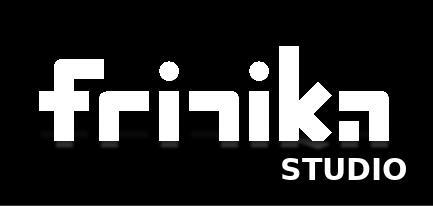
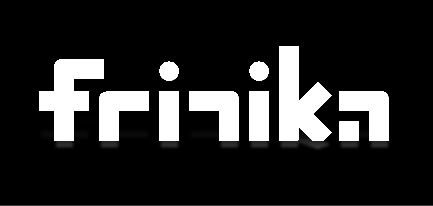
Convert to possible version update of Frinika - Updated about app animation

Changed region(s): [[0.6305, 0.7573, 0.9607, 0.8738]]

diff --git a/modules/frinika-gui/src/main/java/com/frinika/gui/panel/AnimatedLogoPanel.java b/modules/frinika-gui/src/main/java/com/frinika/gui/panel/AnimatedLogoPanel.java
@@ -65,7 +65,7 @@ public class AnimatedLogoPanel extends javax.swing.JPanel {
     public AnimatedLogoPanel() {
         boolean darkMode = WindowUtils.isDarkMode();
         String postfix = darkMode ? "-dark" : "";
-        labelImage = new javax.swing.ImageIcon(getClass().getResource("/com/frinika/resources/frinika-studio" + postfix + ".png"));
+        labelImage = new javax.swing.ImageIcon(getClass().getResource("/com/frinika/resources/frinika" + postfix + ".png"));
         lightImage = new javax.swing.ImageIcon(getClass().getResource("/com/frinika/resources/frinika_light_gradient.png"));
         cloudImage = new javax.swing.ImageIcon(getClass().getResource("/com/frinika/resources/frinika_score.png"));
         overscanImage = new javax.swing.ImageIcon(getClass().getResource("/com/frinika/resources/frinika_overscan" + postfix + ".png"));
@@ -190,7 +190,7 @@ public class AnimatedLogoPanel extends javax.swing.JPanel {
         setBackground(darkMode ? Color.BLACK : Color.WHITE);
 
         String postfix = darkMode ? "-dark" : "";
-        labelImage = new javax.swing.ImageIcon(getClass().getResource("/com/frinika/resources/frinika-studio" + postfix + ".png"));
+        labelImage = new javax.swing.ImageIcon(getClass().getResource("/com/frinika/resources/frinika" + postfix + ".png"));
         overscanImage = new javax.swing.ImageIcon(getClass().getResource("/com/frinika/resources/frinika_overscan" + postfix + ".png"));
         invalidate();
     }

diff --git a/modules/frinika-gui/src/main/java/com/frinika/gui/WelcomeDialog.java b/modules/frinika-gui/src/main/java/com/frinika/gui/WelcomeDialog.java
@@ -80,7 +80,7 @@ public class WelcomeDialog extends JDialog {
         JPanel panel = new JPanel();
         panel.setLayout(new BorderLayout());
         panel.setBackground(darkMode ? Color.BLACK : Color.WHITE);
-        Icon welcome = new javax.swing.ImageIcon(ProjectFrame.class.getResource(darkMode ? "/frinika-studio-dark.png" : "/frinika.png"));
+        Icon welcome = new javax.swing.ImageIcon(ProjectFrame.class.getResource(darkMode ? "/frinika-dark.png" : "/frinika.png"));
         JLabel label = new JLabel(welcome);
         label.setHorizontalTextPosition(SwingConstants.CENTER);
         label.setVerticalTextPosition(SwingConstants.BOTTOM);

diff --git a/modules/frinika-gui/src/main/java/com/frinika/gui/panel/AboutPanel.java b/modules/frinika-gui/src/main/java/com/frinika/gui/panel/AboutPanel.java
@@ -65,7 +65,7 @@ public class AboutPanel extends javax.swing.JPanel {
 
     public static final String MAIN_TITLE
             = "<html><center>"
-            + "<b>Frinika Studio version " + VersionProperties.getVersion() + " </b><br>"
+            + "<b>Frinika DEV version " + VersionProperties.getVersion() + " </b><br>"
             + "<a href=\"http://frinika.sourceforge.net\">http://frinika.sourceforge.net</a><br><font color='#A0A0A0'><i>Build date: " + VersionProperties.getBuildDate() + "</i></font>"
             + "</html>";
 

diff --git a/tools/frinika-app/src/main/java/com/frinika/FrinikaMain.java b/tools/frinika-app/src/main/java/com/frinika/FrinikaMain.java
@@ -62,7 +62,7 @@ public class FrinikaMain {
 
 //        try {
         JFrame welcomeFrame = new JFrame();
-        welcomeFrame.setTitle("Welcome to Frinika Studio");
+        welcomeFrame.setTitle("Welcome to Frinika");
         welcomeFrame.setIconImage(new javax.swing.ImageIcon(FrinikaMain.class.getResource("/icons/frinika.png")).getImage());
         welcomeFrame.setResizable(false);
 
